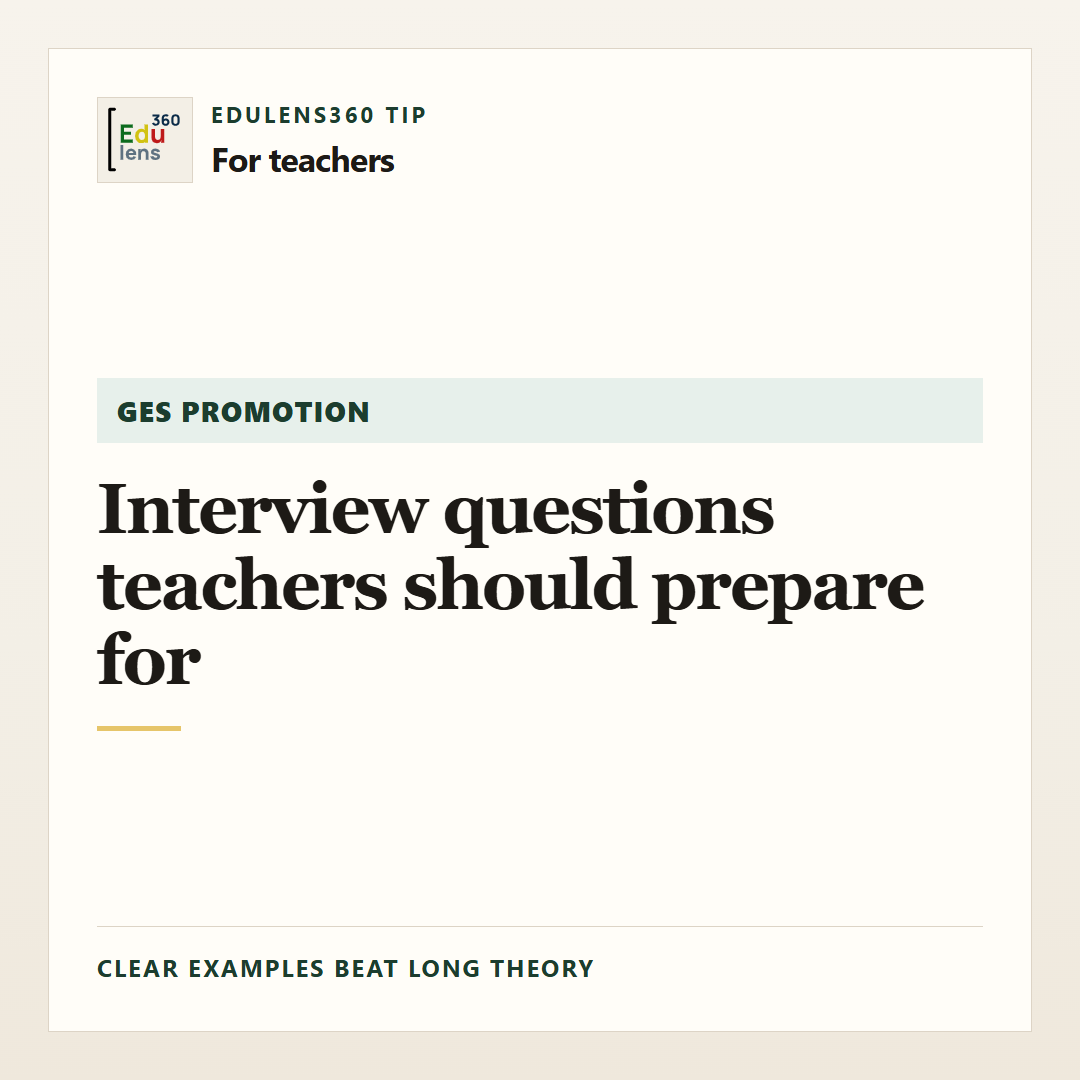
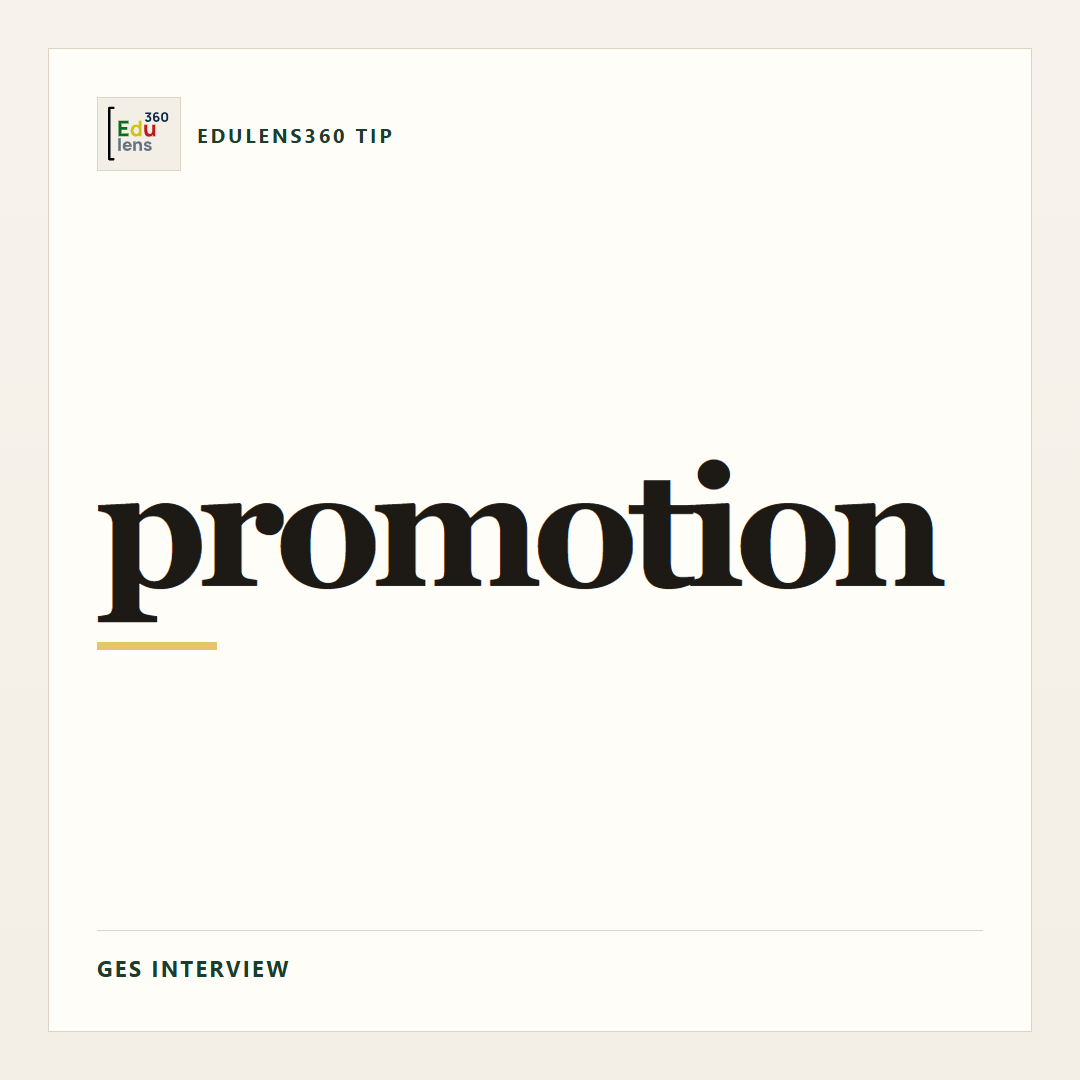
Force big-text tip images onto live image URLs with cache busting.

diff --git a/docs/story/792/cssps-school-placement-what-to-do-if-you-are-not-satisfied/index.html b/docs/story/792/cssps-school-placement-what-to-do-if-you-are-not-satisfied/index.html
@@ -14,15 +14,15 @@
   <meta property="og:url" content="https://edulens360.com/story/792/cssps-school-placement-what-to-do-if-you-are-not-satisfied/">
   <meta property="og:type" content="article">
   <meta property="og:locale" content="en_GH">
-  <meta property="og:image" content="https://edulens360.com/images/tips/cssps-placement-v2.png">
+  <meta property="og:image" content="https://edulens360.com/images/tips/cssps-placement.png?v=3">
   <meta name="twitter:card" content="summary_large_image">
   <meta name="twitter:title" content="CSSPS school placement: what to do if you are not satisfied">
   <meta name="twitter:description" content="CSSPS school placement help for students and parents in Ghana: confirm your placement, use official self-placement options, contact the right office, and avoid costly mistakes.">
-  <meta name="twitter:image" content="https://edulens360.com/images/tips/cssps-placement-v2.png">
+  <meta name="twitter:image" content="https://edulens360.com/images/tips/cssps-placement.png?v=3">
   <link rel="icon" href="../../../icon-192.png">
   <link rel="stylesheet" href="../../../styles.css?v=14">
   <script type="application/ld+json">
-    {"@context": "https://schema.org", "@type": "Article", "headline": "CSSPS school placement: what to do if you are not satisfied", "description": "CSSPS school placement help for students and parents in Ghana: confirm your placement, use official self-placement options, contact the right office, and avoid costly mistakes.", "datePublished": "2026-11-11T14:46:30Z", "dateModified": "2026-11-11T14:46:30Z", "mainEntityOfPage": "https://edulens360.com/story/792/cssps-school-placement-what-to-do-if-you-are-not-satisfied/", "author": {"@type": "Organization", "name": "Edulens360", "url": "https://edulens360.com/"}, "publisher": {"@type": "Organization", "name": "Edulens360", "url": "https://edulens360.com/", "logo": {"@type": "ImageObject", "url": "https://edulens360.com/icon-512.png"}}, "isAccessibleForFree": true, "image": ["https://edulens360.com/images/tips/cssps-placement-v2.png"]}
+    {"@context": "https://schema.org", "@type": "Article", "headline": "CSSPS school placement: what to do if you are not satisfied", "description": "CSSPS school placement help for students and parents in Ghana: confirm your placement, use official self-placement options, contact the right office, and avoid costly mistakes.", "datePublished": "2026-11-11T14:53:28Z", "dateModified": "2026-11-11T14:53:28Z", "mainEntityOfPage": "https://edulens360.com/story/792/cssps-school-placement-what-to-do-if-you-are-not-satisfied/", "author": {"@type": "Organization", "name": "Edulens360", "url": "https://edulens360.com/"}, "publisher": {"@type": "Organization", "name": "Edulens360", "url": "https://edulens360.com/", "logo": {"@type": "ImageObject", "url": "https://edulens360.com/icon-512.png"}}, "isAccessibleForFree": true, "image": ["https://edulens360.com/images/tips/cssps-placement.png?v=3"]}
   </script>
 </head>
 <body>
@@ -52,7 +52,7 @@
     <article class="story">
       <a class="back" href="../../../" aria-label="Back to latest">Back</a>
       <p class="kicker">Basic schools · 11 Nov 2026 · Edulens360 tip</p>
-      <div class="headline"><h1>CSSPS school placement: what to do if you are not satisfied</h1><img class="card-photo" alt="CSSPS school placement: what to do if you are not satisfied" src="https://edulens360.com/images/tips/cssps-placement-v2.png" referrerpolicy="no-referrer"></div>
+      <div class="headline"><h1>CSSPS school placement: what to do if you are not satisfied</h1><img class="card-photo" alt="CSSPS school placement: what to do if you are not satisfied" src="https://edulens360.com/images/tips/cssps-placement.png?v=3" referrerpolicy="no-referrer"></div>
       <p class="summary">CSSPS school placement help for students and parents in Ghana: confirm your placement, use official self-placement options, contact the right office, and avoid costly mistakes.</p>
       <div class="actions">
         <button type="button" class="secondary" id="share-story">Share</button>
@@ -83,7 +83,7 @@
 <p class="summary">How to answer WASSCE essay questions to score more marks: https://edulens360.com/story/790/how-to-answer-wassce-essay-questions-to-score-more-marks/<br>GES promotion interview questions teachers should prepare for: https://edulens360.com/story/791/ges-promotion-interview-questions-teachers-should-prepare-for/</p></section>
     </article>
   </main>
-  <script type="application/json" id="story-data">{"id": 792, "title": "CSSPS school placement: what to do if you are not satisfied", "summary": "CSSPS school placement help for students and parents in Ghana: confirm your placement, use official self-placement options, contact the right office, and avoid costly mistakes.", "category": "basic_schools", "published_at": "2026-11-11T14:46:30.624441Z", "source_count": 1, "sources": ["Edulens360"], "image_url": "https://edulens360.com/images/tips/cssps-placement-v2.png", "path": "story/792/cssps-school-placement-what-to-do-if-you-are-not-satisfied/", "articles": [{"source_name": "Edulens360", "title": "CSSPS school placement: what to do if you are not satisfied", "url": "https://edulens360.com/story/792/cssps-school-placement-what-to-do-if-you-are-not-satisfied/", "published_at": "2026-11-11T14:46:30.624441Z", "excerpt": "If your CSSPS placement is not what you wanted, act quickly and follow the official process. Panic and random transfers usually waste time.\n\n### First, confirm your placement details\nCheck:\nThe school name\nBoarding or day status\nProgramme placed\nYour raw score and choices\n\nTake a clear screenshot or printout before you do anything else.\n\n### Understand why the placement happened\nCommon reasons include:\nYour aggregate did not meet the school's cutoff\nYour preferred programmes were full\nYou placed a highly competitive school too high with a weak aggregate\nDay or boarding options did not match availability\n\nKnowing the reason helps you choose a realistic next step.\n\n### Use the self-placement or protocol options when available\nWhen CSSPS opens self-placement or related options:\nLog in with the correct credentials\nLook for schools that still have vacancies\nChoose a school and programme you can realistically accept\nSave confirmation evidence\n\nDo not wait until the last hours of the window.\n\n### Contact the right office, not only social media\nIf you need help, start with:\nYour junior high school\nThe district education office\nThe official CSSPS support channels published for that year\n\nBring your placement printout, results, and ID details.\n\n### Decide fast between waiting and moving on\nAsk:\nCan this school still help me reach my next goal?\nIs there a vacant school with a better fit?\nWill delaying enrolment cost me the academic year?\n\nA good available school is often better than waiting endlessly for a school with no space.\n\n### Avoid these mistakes\nPaying someone who promises a guaranteed school\nIgnoring enrolment deadlines at the placed school\nChanging decisions every day without checking vacancies\nRelying only on WhatsApp rumours\n\n### Quick rule\nConfirm the placement, use the official window, keep evidence, and choose the best realistic option on time.\n\nEdulens360. Practical tips for Ghana's education community.\n\n### Related Edulens360 tips\nHow to answer WASSCE essay questions to score more marks: https://edulens360.com/story/790/how-to-answer-wassce-essay-questions-to-score-more-marks/\nGES promotion interview questions teachers should prepare for: https://edulens360.com/story/791/ges-promotion-interview-questions-teachers-should-prepare-for/"}]}</script>
+  <script type="application/json" id="story-data">{"id": 792, "title": "CSSPS school placement: what to do if you are not satisfied", "summary": "CSSPS school placement help for students and parents in Ghana: confirm your placement, use official self-placement options, contact the right office, and avoid costly mistakes.", "category": "basic_schools", "published_at": "2026-11-11T14:53:28.538447Z", "source_count": 1, "sources": ["Edulens360"], "image_url": "https://edulens360.com/images/tips/cssps-placement.png?v=3", "path": "story/792/cssps-school-placement-what-to-do-if-you-are-not-satisfied/", "articles": [{"source_name": "Edulens360", "title": "CSSPS school placement: what to do if you are not satisfied", "url": "https://edulens360.com/story/792/cssps-school-placement-what-to-do-if-you-are-not-satisfied/", "published_at": "2026-11-11T14:53:28.538447Z", "excerpt": "If your CSSPS placement is not what you wanted, act quickly and follow the official process. Panic and random transfers usually waste time.\n\n### First, confirm your placement details\nCheck:\nThe school name\nBoarding or day status\nProgramme placed\nYour raw score and choices\n\nTake a clear screenshot or printout before you do anything else.\n\n### Understand why the placement happened\nCommon reasons include:\nYour aggregate did not meet the school's cutoff\nYour preferred programmes were full\nYou placed a highly competitive school too high with a weak aggregate\nDay or boarding options did not match availability\n\nKnowing the reason helps you choose a realistic next step.\n\n### Use the self-placement or protocol options when available\nWhen CSSPS opens self-placement or related options:\nLog in with the correct credentials\nLook for schools that still have vacancies\nChoose a school and programme you can realistically accept\nSave confirmation evidence\n\nDo not wait until the last hours of the window.\n\n### Contact the right office, not only social media\nIf you need help, start with:\nYour junior high school\nThe district education office\nThe official CSSPS support channels published for that year\n\nBring your placement printout, results, and ID details.\n\n### Decide fast between waiting and moving on\nAsk:\nCan this school still help me reach my next goal?\nIs there a vacant school with a better fit?\nWill delaying enrolment cost me the academic year?\n\nA good available school is often better than waiting endlessly for a school with no space.\n\n### Avoid these mistakes\nPaying someone who promises a guaranteed school\nIgnoring enrolment deadlines at the placed school\nChanging decisions every day without checking vacancies\nRelying only on WhatsApp rumours\n\n### Quick rule\nConfirm the placement, use the official window, keep evidence, and choose the best realistic option on time.\n\nEdulens360. Practical tips for Ghana's education community.\n\n### Related Edulens360 tips\nHow to answer WASSCE essay questions to score more marks: https://edulens360.com/story/790/how-to-answer-wassce-essay-questions-to-score-more-marks/\nGES promotion interview questions teachers should prepare for: https://edulens360.com/story/791/ges-promotion-interview-questions-teachers-should-prepare-for/"}]}</script>
   <script>
     const story = JSON.parse(document.getElementById("story-data").textContent);
     const button = document.getElementById("save-story");

diff --git a/docs/story/791/ges-promotion-interview-questions-teachers-should-prepare-for/index.html b/docs/story/791/ges-promotion-interview-questions-teachers-should-prepare-for/index.html
@@ -14,15 +14,15 @@
   <meta property="og:url" content="https://edulens360.com/story/791/ges-promotion-interview-questions-teachers-should-prepare-for/">
   <meta property="og:type" content="article">
   <meta property="og:locale" content="en_GH">
-  <meta property="og:image" content="https://edulens360.com/images/tips/ges-promotion-v2.png">
+  <meta property="og:image" content="https://edulens360.com/images/tips/ges-promotion.png?v=3">
   <meta name="twitter:card" content="summary_large_image">
   <meta name="twitter:title" content="GES promotion interview questions teachers should prepare for">
   <meta name="twitter:description" content="Prepare for GES promotion interviews in Ghana with common questions on teaching practice, professionalism, education issues, judgment, and how to answer with classroom examples.">
-  <meta name="twitter:image" content="https://edulens360.com/images/tips/ges-promotion-v2.png">
+  <meta name="twitter:image" content="https://edulens360.com/images/tips/ges-promotion.png?v=3">
   <link rel="icon" href="../../../icon-192.png">
   <link rel="stylesheet" href="../../../styles.css?v=14">
   <script type="application/ld+json">
-    {"@context": "https://schema.org", "@type": "Article", "headline": "GES promotion interview questions teachers should prepare for", "description": "Prepare for GES promotion interviews in Ghana with common questions on teaching practice, professionalism, education issues, judgment, and how to answer with classroom examples.", "datePublished": "2026-11-11T14:47:10Z", "dateModified": "2026-11-11T14:47:10Z", "mainEntityOfPage": "https://edulens360.com/story/791/ges-promotion-interview-questions-teachers-should-prepare-for/", "author": {"@type": "Organization", "name": "Edulens360", "url": "https://edulens360.com/"}, "publisher": {"@type": "Organization", "name": "Edulens360", "url": "https://edulens360.com/", "logo": {"@type": "ImageObject", "url": "https://edulens360.com/icon-512.png"}}, "isAccessibleForFree": true, "image": ["https://edulens360.com/images/tips/ges-promotion-v2.png"]}
+    {"@context": "https://schema.org", "@type": "Article", "headline": "GES promotion interview questions teachers should prepare for", "description": "Prepare for GES promotion interviews in Ghana with common questions on teaching practice, professionalism, education issues, judgment, and how to answer with classroom examples.", "datePublished": "2026-11-11T14:53:58Z", "dateModified": "2026-11-11T14:53:58Z", "mainEntityOfPage": "https://edulens360.com/story/791/ges-promotion-interview-questions-teachers-should-prepare-for/", "author": {"@type": "Organization", "name": "Edulens360", "url": "https://edulens360.com/"}, "publisher": {"@type": "Organization", "name": "Edulens360", "url": "https://edulens360.com/", "logo": {"@type": "ImageObject", "url": "https://edulens360.com/icon-512.png"}}, "isAccessibleForFree": true, "image": ["https://edulens360.com/images/tips/ges-promotion.png?v=3"]}
   </script>
 </head>
 <body>
@@ -52,7 +52,7 @@
     <article class="story">
       <a class="back" href="../../../" aria-label="Back to latest">Back</a>
       <p class="kicker">Teachers · 11 Nov 2026 · Edulens360 tip</p>
-      <div class="headline"><h1>GES promotion interview questions teachers should prepare for</h1><img class="card-photo" alt="GES promotion interview questions teachers should prepare for" src="https://edulens360.com/images/tips/ges-promotion-v2.png" referrerpolicy="no-referrer"></div>
+      <div class="headline"><h1>GES promotion interview questions teachers should prepare for</h1><img class="card-photo" alt="GES promotion interview questions teachers should prepare for" src="https://edulens360.com/images/tips/ges-promotion.png?v=3" referrerpolicy="no-referrer"></div>
       <p class="summary">Prepare for GES promotion interviews in Ghana with common questions on teaching practice, professionalism, education issues, judgment, and how to answer with classroom examples.</p>
       <div class="actions">
         <button type="button" class="secondary" id="share-story">Share</button>
@@ -80,7 +80,7 @@
 <p class="summary">How to answer WASSCE essay questions to score more marks: https://edulens360.com/story/790/how-to-answer-wassce-essay-questions-to-score-more-marks/<br>CSSPS school placement: what to do if you are not satisfied: https://edulens360.com/story/792/cssps-school-placement-what-to-do-if-you-are-not-satisfied/</p></section>
     </article>
   </main>
-  <script type="application/json" id="story-data">{"id": 791, "title": "GES promotion interview questions teachers should prepare for", "summary": "Prepare for GES promotion interviews in Ghana with common questions on teaching practice, professionalism, education issues, judgment, and how to answer with classroom examples.", "category": "teachers", "published_at": "2026-11-11T14:47:10.624441Z", "source_count": 1, "sources": ["Edulens360"], "image_url": "https://edulens360.com/images/tips/ges-promotion-v2.png", "path": "story/791/ges-promotion-interview-questions-teachers-should-prepare-for/", "articles": [{"source_name": "Edulens360", "title": "GES promotion interview questions teachers should prepare for", "url": "https://edulens360.com/story/791/ges-promotion-interview-questions-teachers-should-prepare-for/", "published_at": "2026-11-11T14:47:10.624441Z", "excerpt": "GES promotion interviews often repeat the same themes. Prepare short, clear answers so you do not freeze when the panel asks.\n\n### Questions about your teaching practice\nHow do you plan a lesson for mixed-ability learners?\nHow do you handle a class that is noisy or off-task?\nHow do you assess learning during and after a lesson?\nHow do you support learners who are falling behind?\n\nUse one real classroom example for each answer.\n\n### Questions about the profession and GES\nWhy do you want this promotion?\nWhat does a professional teacher do outside the classroom?\nHow do you work with your headteacher and colleagues?\nHow do you handle parent concerns?\n\nKeep answers honest and practical. Avoid long speeches.\n\n### Questions about current education issues\nBe ready to talk briefly about:\nFree SHS and classroom realities\nContinuous professional development\nLearner discipline and child protection\nInclusive education\nUse of teaching and learning materials\n\nYou do not need perfect policy language. Show that you understand what the issue means in a real school.\n\n### Questions that test judgment\nWhat would you do if a colleague was mistreating a learner?\nHow would you respond if a parent accused you unfairly?\nWhat would you change in your school if given the chance?\n\nPanels look for calm judgment, fairness, and professionalism.\n\n### How to prepare the day before\nWrite 6 to 8 short stories from your own teaching\nPractice answering out loud in 1 to 2 minutes each\nPrepare one strength, one improvement area, and one achievement\nCarry your documents neatly and arrive early\n\n### Quick rule\nClear example beats long theory. Speak like a classroom teacher who solves problems.\n\nEdulens360. Practical tips for Ghana's education community.\n\n### Related Edulens360 tips\nHow to answer WASSCE essay questions to score more marks: https://edulens360.com/story/790/how-to-answer-wassce-essay-questions-to-score-more-marks/\nCSSPS school placement: what to do if you are not satisfied: https://edulens360.com/story/792/cssps-school-placement-what-to-do-if-you-are-not-satisfied/"}]}</script>
+  <script type="application/json" id="story-data">{"id": 791, "title": "GES promotion interview questions teachers should prepare for", "summary": "Prepare for GES promotion interviews in Ghana with common questions on teaching practice, professionalism, education issues, judgment, and how to answer with classroom examples.", "category": "teachers", "published_at": "2026-11-11T14:53:58.538447Z", "source_count": 1, "sources": ["Edulens360"], "image_url": "https://edulens360.com/images/tips/ges-promotion.png?v=3", "path": "story/791/ges-promotion-interview-questions-teachers-should-prepare-for/", "articles": [{"source_name": "Edulens360", "title": "GES promotion interview questions teachers should prepare for", "url": "https://edulens360.com/story/791/ges-promotion-interview-questions-teachers-should-prepare-for/", "published_at": "2026-11-11T14:53:58.538447Z", "excerpt": "GES promotion interviews often repeat the same themes. Prepare short, clear answers so you do not freeze when the panel asks.\n\n### Questions about your teaching practice\nHow do you plan a lesson for mixed-ability learners?\nHow do you handle a class that is noisy or off-task?\nHow do you assess learning during and after a lesson?\nHow do you support learners who are falling behind?\n\nUse one real classroom example for each answer.\n\n### Questions about the profession and GES\nWhy do you want this promotion?\nWhat does a professional teacher do outside the classroom?\nHow do you work with your headteacher and colleagues?\nHow do you handle parent concerns?\n\nKeep answers honest and practical. Avoid long speeches.\n\n### Questions about current education issues\nBe ready to talk briefly about:\nFree SHS and classroom realities\nContinuous professional development\nLearner discipline and child protection\nInclusive education\nUse of teaching and learning materials\n\nYou do not need perfect policy language. Show that you understand what the issue means in a real school.\n\n### Questions that test judgment\nWhat would you do if a colleague was mistreating a learner?\nHow would you respond if a parent accused you unfairly?\nWhat would you change in your school if given the chance?\n\nPanels look for calm judgment, fairness, and professionalism.\n\n### How to prepare the day before\nWrite 6 to 8 short stories from your own teaching\nPractice answering out loud in 1 to 2 minutes each\nPrepare one strength, one improvement area, and one achievement\nCarry your documents neatly and arrive early\n\n### Quick rule\nClear example beats long theory. Speak like a classroom teacher who solves problems.\n\nEdulens360. Practical tips for Ghana's education community.\n\n### Related Edulens360 tips\nHow to answer WASSCE essay questions to score more marks: https://edulens360.com/story/790/how-to-answer-wassce-essay-questions-to-score-more-marks/\nCSSPS school placement: what to do if you are not satisfied: https://edulens360.com/story/792/cssps-school-placement-what-to-do-if-you-are-not-satisfied/"}]}</script>
   <script>
     const story = JSON.parse(document.getElementById("story-data").textContent);
     const button = document.getElementById("save-story");

diff --git a/docs/story/790/how-to-answer-wassce-essay-questions-to-score-more-marks/index.html b/docs/story/790/how-to-answer-wassce-essay-questions-to-score-more-marks/index.html
@@ -14,15 +14,15 @@
   <meta property="og:url" content="https://edulens360.com/story/790/how-to-answer-wassce-essay-questions-to-score-more-marks/">
   <meta property="og:type" content="article">
   <meta property="og:locale" content="en_GH">
-  <meta property="og:image" content="https://edulens360.com/images/tips/wassce-essay-v2.png">
+  <meta property="og:image" content="https://edulens360.com/images/tips/wassce-essay.png?v=3">
   <meta name="twitter:card" content="summary_large_image">
   <meta name="twitter:title" content="How to answer WASSCE essay questions to score more marks">
   <meta name="twitter:description" content="Learn how to answer WASSCE essay questions in Ghana: command words, quick planning, paragraph structure, examples, and timing tips to score more marks.">
-  <meta name="twitter:image" content="https://edulens360.com/images/tips/wassce-essay-v2.png">
+  <meta name="twitter:image" content="https://edulens360.com/images/tips/wassce-essay.png?v=3">
   <link rel="icon" href="../../../icon-192.png">
   <link rel="stylesheet" href="../../../styles.css?v=14">
   <script type="application/ld+json">
-    {"@context": "https://schema.org", "@type": "Article", "headline": "How to answer WASSCE essay questions to score more marks", "description": "Learn how to answer WASSCE essay questions in Ghana: command words, quick planning, paragraph structure, examples, and timing tips to score more marks.", "datePublished": "2026-11-11T14:47:50Z", "dateModified": "2026-11-11T14:47:50Z", "mainEntityOfPage": "https://edulens360.com/story/790/how-to-answer-wassce-essay-questions-to-score-more-marks/", "author": {"@type": "Organization", "name": "Edulens360", "url": "https://edulens360.com/"}, "publisher": {"@type": "Organization", "name": "Edulens360", "url": "https://edulens360.com/", "logo": {"@type": "ImageObject", "url": "https://edulens360.com/icon-512.png"}}, "isAccessibleForFree": true, "image": ["https://edulens360.com/images/tips/wassce-essay-v2.png"]}
+    {"@context": "https://schema.org", "@type": "Article", "headline": "How to answer WASSCE essay questions to score more marks", "description": "Learn how to answer WASSCE essay questions in Ghana: command words, quick planning, paragraph structure, examples, and timing tips to score more marks.", "datePublished": "2026-11-11T14:54:28Z", "dateModified": "2026-11-11T14:54:28Z", "mainEntityOfPage": "https://edulens360.com/story/790/how-to-answer-wassce-essay-questions-to-score-more-marks/", "author": {"@type": "Organization", "name": "Edulens360", "url": "https://edulens360.com/"}, "publisher": {"@type": "Organization", "name": "Edulens360", "url": "https://edulens360.com/", "logo": {"@type": "ImageObject", "url": "https://edulens360.com/icon-512.png"}}, "isAccessibleForFree": true, "image": ["https://edulens360.com/images/tips/wassce-essay.png?v=3"]}
   </script>
 </head>
 <body>
@@ -52,7 +52,7 @@
     <article class="story">
       <a class="back" href="../../../" aria-label="Back to latest">Back</a>
       <p class="kicker">Examinations · 11 Nov 2026 · Edulens360 tip</p>
-      <div class="headline"><h1>How to answer WASSCE essay questions to score more marks</h1><img class="card-photo" alt="How to answer WASSCE essay questions to score more marks" src="https://edulens360.com/images/tips/wassce-essay-v2.png" referrerpolicy="no-referrer"></div>
+      <div class="headline"><h1>How to answer WASSCE essay questions to score more marks</h1><img class="card-photo" alt="How to answer WASSCE essay questions to score more marks" src="https://edulens360.com/images/tips/wassce-essay.png?v=3" referrerpolicy="no-referrer"></div>
       <p class="summary">Learn how to answer WASSCE essay questions in Ghana: command words, quick planning, paragraph structure, examples, and timing tips to score more marks.</p>
       <div class="actions">
         <button type="button" class="secondary" id="share-story">Share</button>
@@ -81,7 +81,7 @@
 <p class="summary">GES promotion interview questions teachers should prepare for: https://edulens360.com/story/791/ges-promotion-interview-questions-teachers-should-prepare-for/<br>CSSPS school placement: what to do if you are not satisfied: https://edulens360.com/story/792/cssps-school-placement-what-to-do-if-you-are-not-satisfied/</p></section>
     </article>
   </main>
-  <script type="application/json" id="story-data">{"id": 790, "title": "How to answer WASSCE essay questions to score more marks", "summary": "Learn how to answer WASSCE essay questions in Ghana: command words, quick planning, paragraph structure, examples, and timing tips to score more marks.", "category": "examinations", "published_at": "2026-11-11T14:47:50.624441Z", "source_count": 1, "sources": ["Edulens360"], "image_url": "https://edulens360.com/images/tips/wassce-essay-v2.png", "path": "story/790/how-to-answer-wassce-essay-questions-to-score-more-marks/", "articles": [{"source_name": "Edulens360", "title": "How to answer WASSCE essay questions to score more marks", "url": "https://edulens360.com/story/790/how-to-answer-wassce-essay-questions-to-score-more-marks/", "published_at": "2026-11-11T14:47:50.624441Z", "excerpt": "WASSCE essay marks are often lost on structure, not on knowledge. Use this method so your answers are easier for the examiner to score.\n\n### Read the question twice before you write\nCircle the command word: explain, discuss, compare, examine, outline. Those words decide how deep your answer should go. If the question has two parts, plan both before you start.\n\n### Make a short plan in 2 to 3 minutes\nWrite 4 to 6 points in the margin. Put your strongest points first. A short plan stops you from wandering and running out of time.\n\n### Use a clear paragraph pattern\nFor each main point:\nState the point in one sentence\nExplain it\nGive an example or reason\nLink it back to the question\n\nExaminers reward answers that stay on the question from start to finish.\n\n### Open with a direct answer\nYour first paragraph should show you understood the question. Do not spend half a page defining every word. Define only what is needed, then move into your points.\n\n### Use examples from Ghana or your subject\nA local, subject-based example is stronger than a vague statement. In Government, History, Social Studies, Economics, and similar papers, specific examples raise your mark.\n\n### Watch your time\nIf the paper has more than one essay, leave enough time for each. A complete second essay usually beats a perfect first essay and an empty second one.\n\n### Leave 5 minutes to check\nCheck spelling of key terms, paragraphing, and whether every paragraph answers the question asked.\n\n### Quick rule\nPlan, answer directly, explain with examples, and protect your time.\n\nEdulens360. Practical tips for Ghana's education community.\n\n### Related Edulens360 tips\nGES promotion interview questions teachers should prepare for: https://edulens360.com/story/791/ges-promotion-interview-questions-teachers-should-prepare-for/\nCSSPS school placement: what to do if you are not satisfied: https://edulens360.com/story/792/cssps-school-placement-what-to-do-if-you-are-not-satisfied/"}]}</script>
+  <script type="application/json" id="story-data">{"id": 790, "title": "How to answer WASSCE essay questions to score more marks", "summary": "Learn how to answer WASSCE essay questions in Ghana: command words, quick planning, paragraph structure, examples, and timing tips to score more marks.", "category": "examinations", "published_at": "2026-11-11T14:54:28.538447Z", "source_count": 1, "sources": ["Edulens360"], "image_url": "https://edulens360.com/images/tips/wassce-essay.png?v=3", "path": "story/790/how-to-answer-wassce-essay-questions-to-score-more-marks/", "articles": [{"source_name": "Edulens360", "title": "How to answer WASSCE essay questions to score more marks", "url": "https://edulens360.com/story/790/how-to-answer-wassce-essay-questions-to-score-more-marks/", "published_at": "2026-11-11T14:54:28.538447Z", "excerpt": "WASSCE essay marks are often lost on structure, not on knowledge. Use this method so your answers are easier for the examiner to score.\n\n### Read the question twice before you write\nCircle the command word: explain, discuss, compare, examine, outline. Those words decide how deep your answer should go. If the question has two parts, plan both before you start.\n\n### Make a short plan in 2 to 3 minutes\nWrite 4 to 6 points in the margin. Put your strongest points first. A short plan stops you from wandering and running out of time.\n\n### Use a clear paragraph pattern\nFor each main point:\nState the point in one sentence\nExplain it\nGive an example or reason\nLink it back to the question\n\nExaminers reward answers that stay on the question from start to finish.\n\n### Open with a direct answer\nYour first paragraph should show you understood the question. Do not spend half a page defining every word. Define only what is needed, then move into your points.\n\n### Use examples from Ghana or your subject\nA local, subject-based example is stronger than a vague statement. In Government, History, Social Studies, Economics, and similar papers, specific examples raise your mark.\n\n### Watch your time\nIf the paper has more than one essay, leave enough time for each. A complete second essay usually beats a perfect first essay and an empty second one.\n\n### Leave 5 minutes to check\nCheck spelling of key terms, paragraphing, and whether every paragraph answers the question asked.\n\n### Quick rule\nPlan, answer directly, explain with examples, and protect your time.\n\nEdulens360. Practical tips for Ghana's education community.\n\n### Related Edulens360 tips\nGES promotion interview questions teachers should prepare for: https://edulens360.com/story/791/ges-promotion-interview-questions-teachers-should-prepare-for/\nCSSPS school placement: what to do if you are not satisfied: https://edulens360.com/story/792/cssps-school-placement-what-to-do-if-you-are-not-satisfied/"}]}</script>
   <script>
     const story = JSON.parse(document.getElementById("story-data").textContent);
     const button = document.getElementById("save-story");
